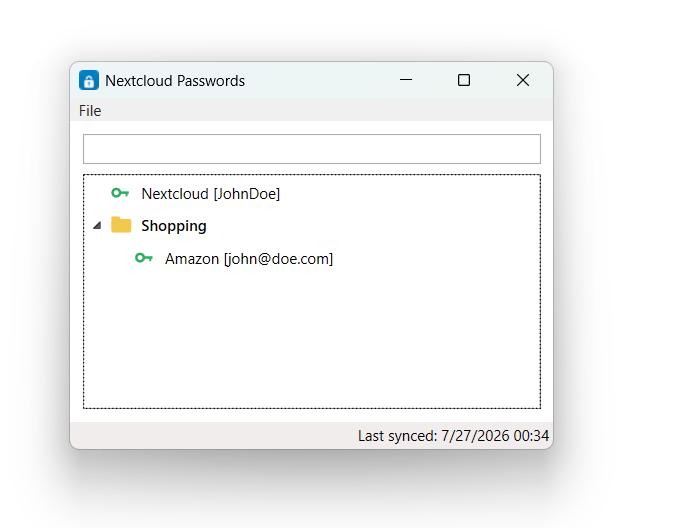
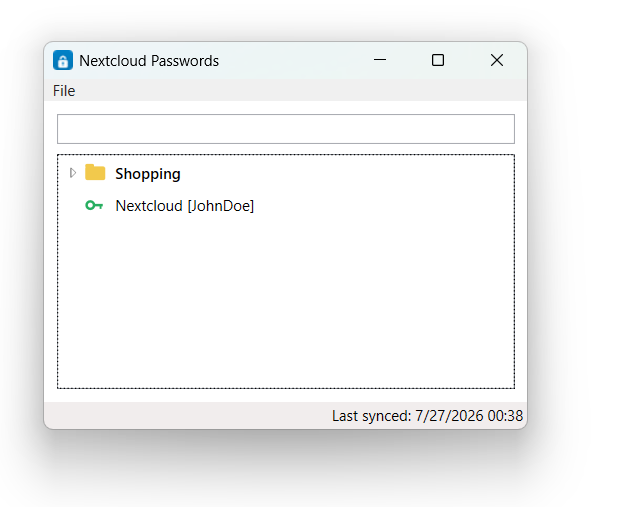
Order entries by type

diff --git a/src/NcPasswords.App/ViewModels/FolderNodeViewModel.cs b/src/NcPasswords.App/ViewModels/FolderNodeViewModel.cs
@@ -4,8 +4,8 @@ namespace NcPasswords.App.ViewModels;
 
 /// <summary>
 /// Binding-friendly wrapper around a <see cref="FolderNode"/> for a combined folder/entry tree view
-/// (à la Password Safe): each node's <see cref="Items"/> mixes child folders and the passwords stored
-/// directly in it, sorted together alphabetically.
+/// (à la Password Safe): each node's <see cref="Items"/> lists child folders before the passwords
+/// stored directly in it, alphabetically within each group.
 /// </summary>
 public sealed class FolderNodeViewModel
 {
@@ -56,15 +56,9 @@ public sealed class FolderNodeViewModel
     }
 
     private static List<object> Merge(IEnumerable<FolderNodeViewModel> folders, IEnumerable<PasswordEntryViewModel> passwords) =>
-        folders.Cast<object>()
-            .Concat(passwords)
-            .OrderBy(SortLabel, StringComparer.OrdinalIgnoreCase)
+        folders
+            .OrderBy(f => f.Label, StringComparer.OrdinalIgnoreCase)
+            .Cast<object>()
+            .Concat(passwords.OrderBy(p => p.Label, StringComparer.OrdinalIgnoreCase))
             .ToList();
-
-    private static string SortLabel(object item) => item switch
-    {
-        FolderNodeViewModel folder => folder.Label,
-        PasswordEntryViewModel password => password.Label,
-        _ => "",
-    };
 }
